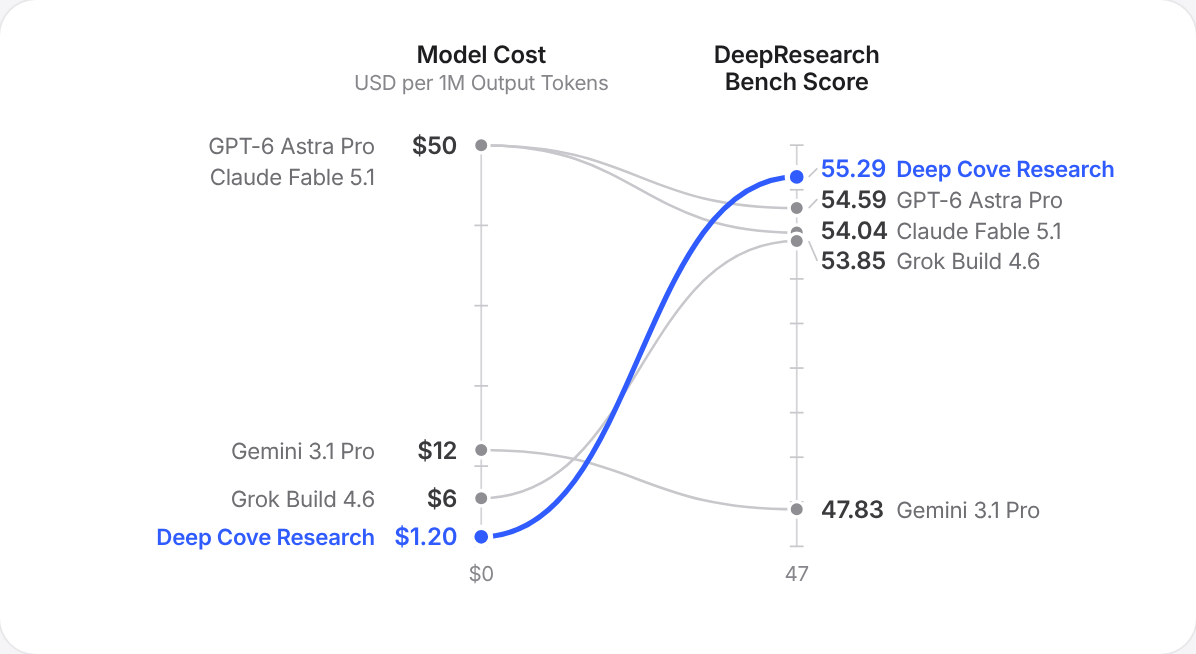
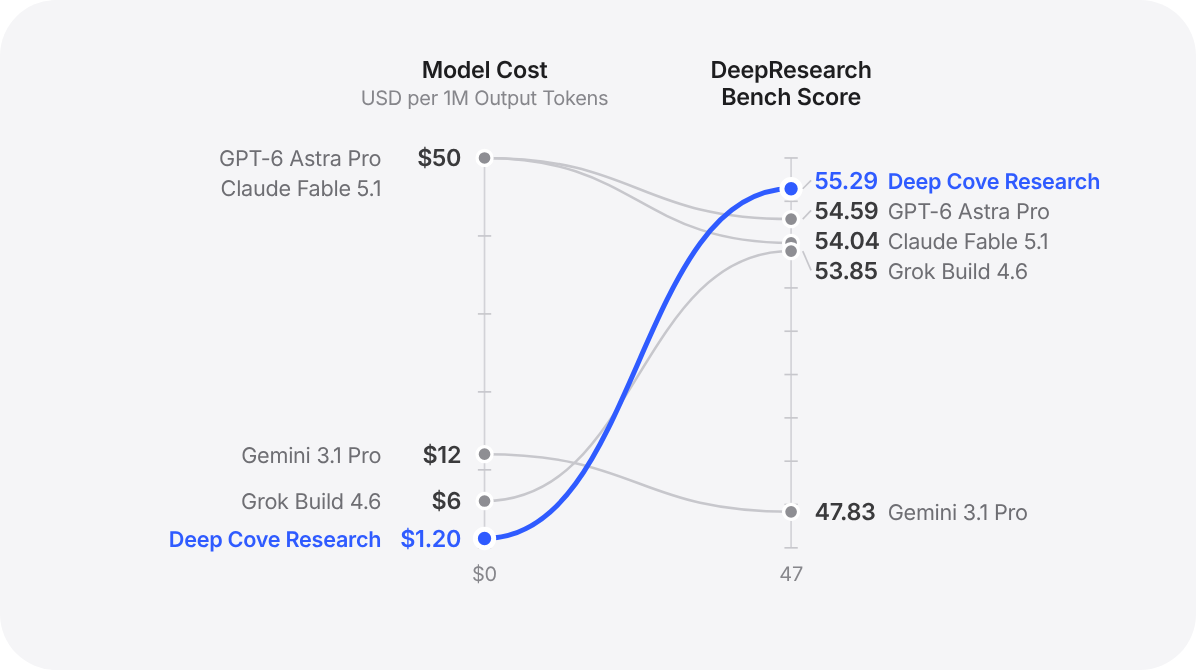
Tidy the contact block and the model cost figure
Claude-Session: https://claude.ai/code/session_01UEdj6C6aQbsGzRjgrFH9NS

diff --git a/README.md b/README.md
@@ -198,11 +198,9 @@ Deep Cove Research is a stealth team based in North Vancouver, BC. We build the 
 
 **Early access.** Deep Cove Research is opening in stages. To request an invitation for your team, email us. Available as a web app and as an MCP server for your own agents.
 
-| | |
-|:--|:--|
-| Email | [hello@deepcove.ai](mailto:hello@deepcove.ai) |
-| Phone | +1 (604) 764 6576 |
-| Address | 889 Harbourside Drive, North Vancouver, BC V7P 3S1, Canada |
+- **Email:** [hello@deepcove.ai](mailto:hello@deepcove.ai)
+- **Phone:** +1 (604) 764 6576
+- **Address:** 889 Harbourside Drive, North Vancouver, BC V7P 3S1, Canada
 
 ## Citation
 
